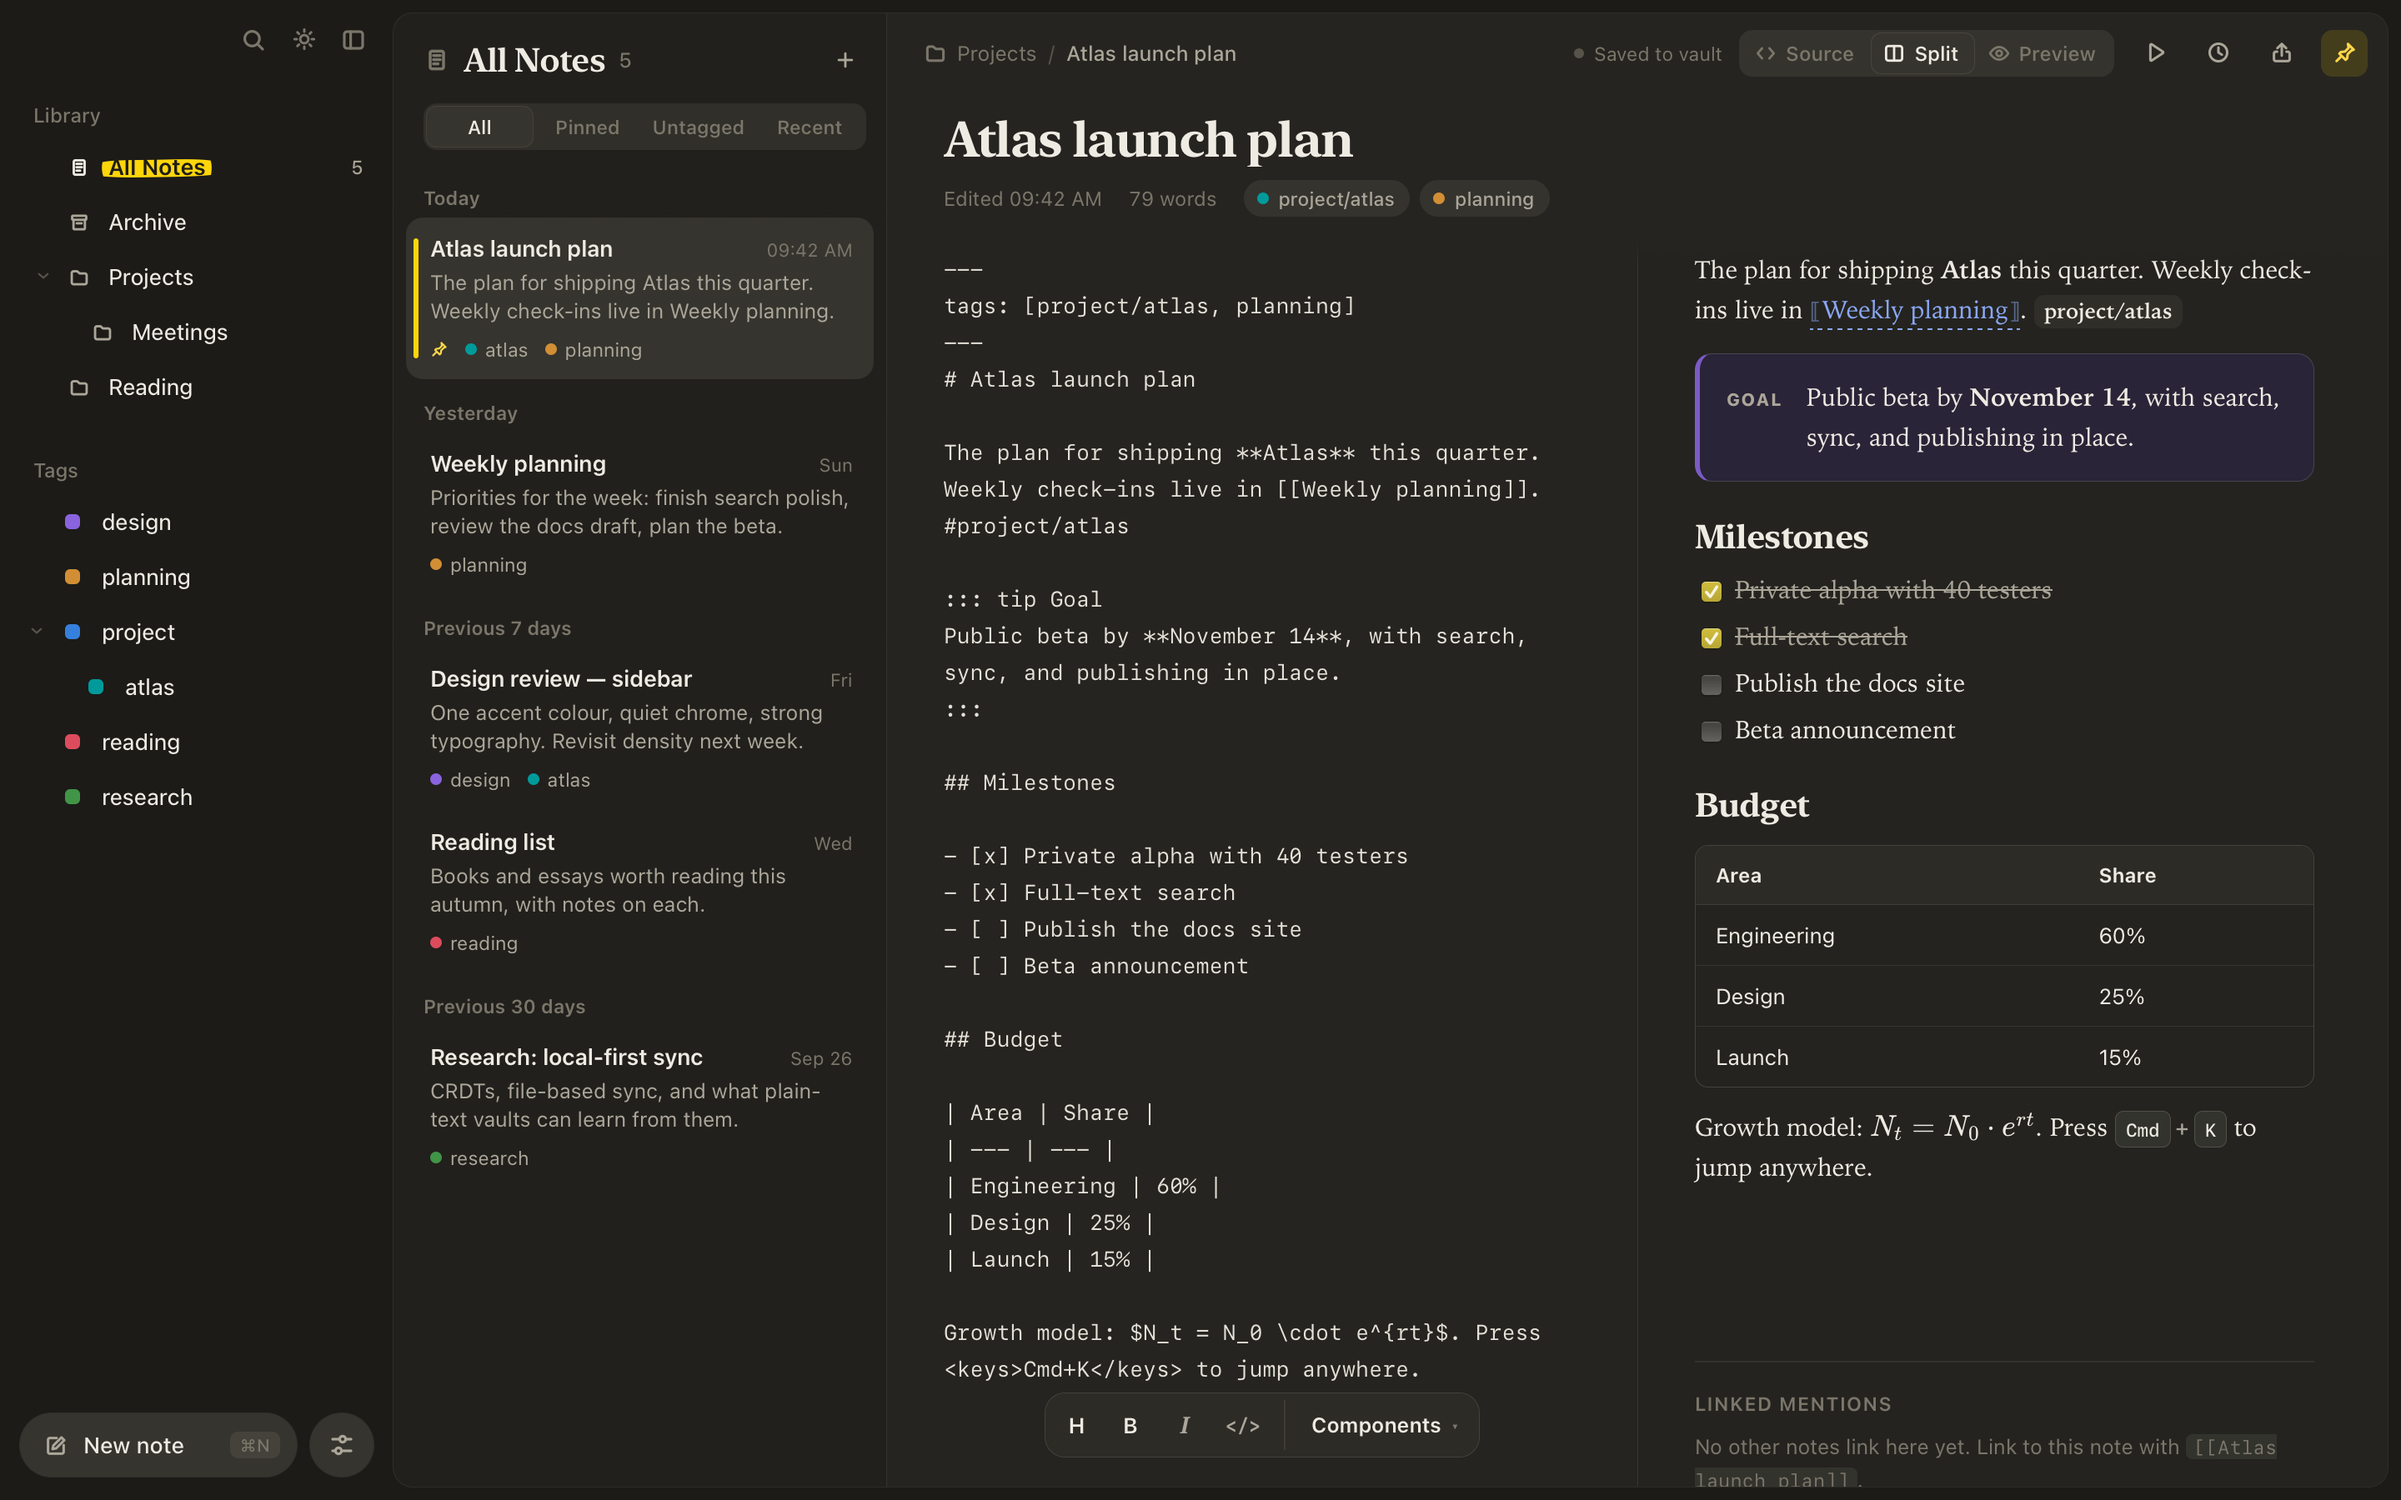
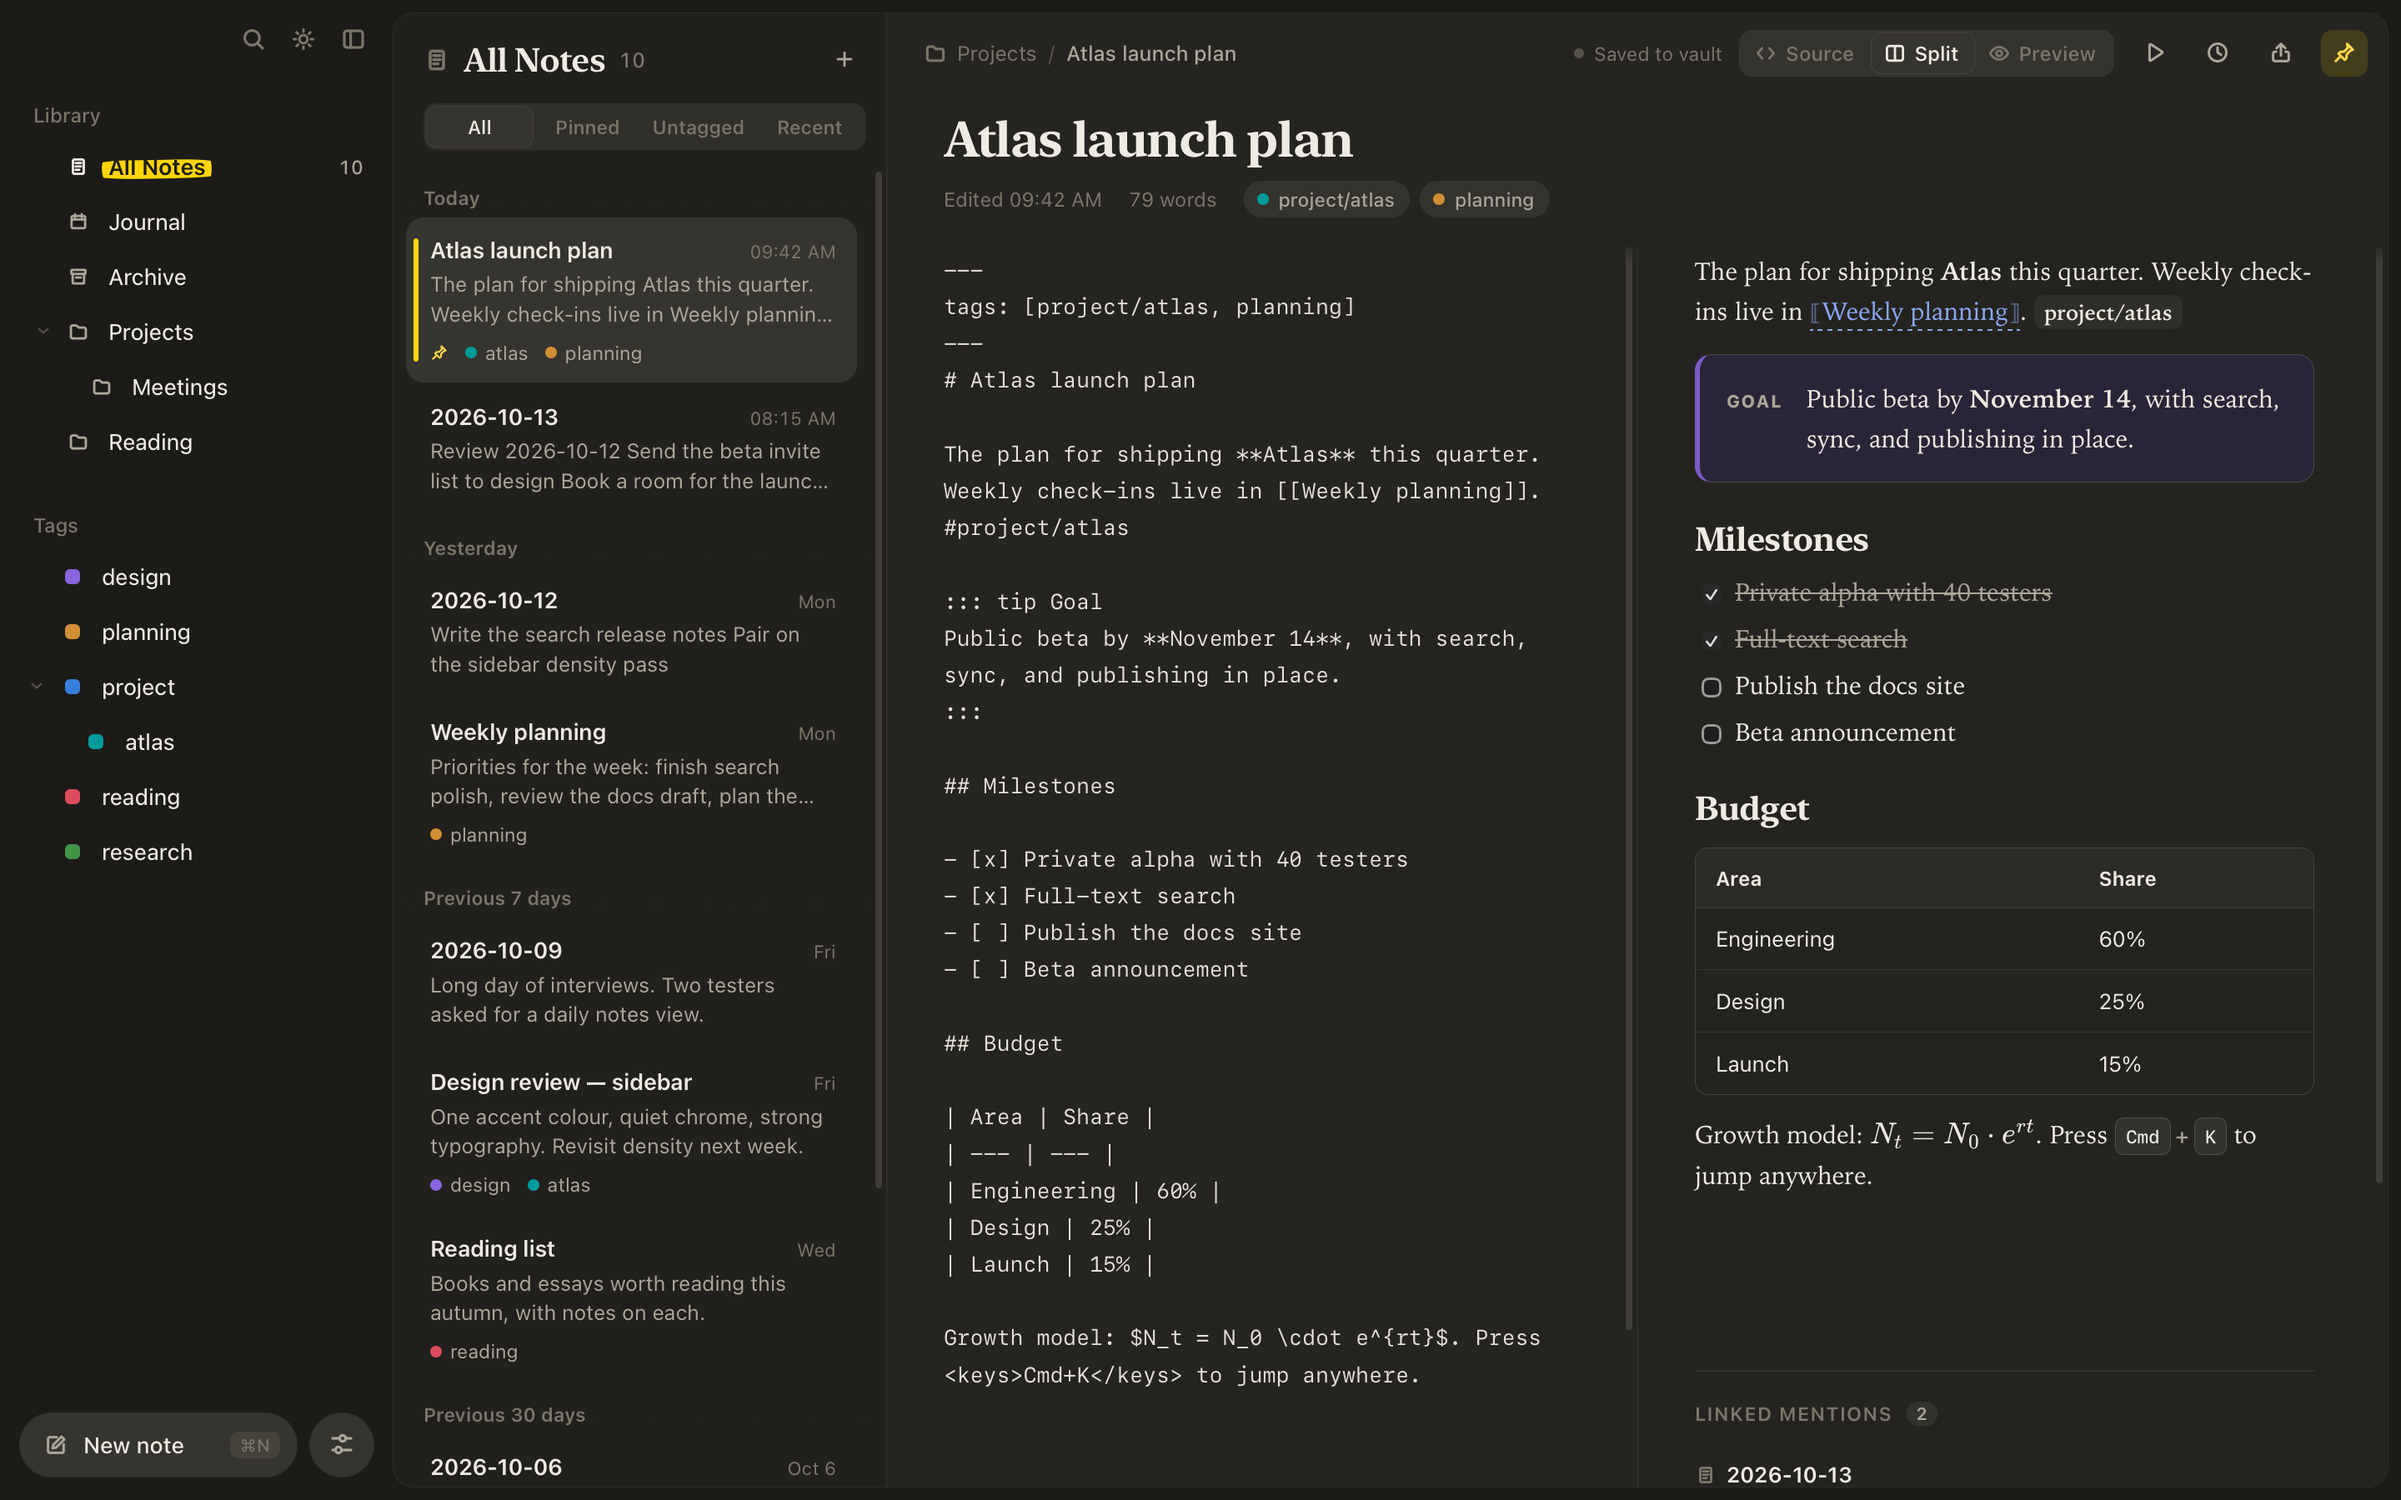
docs: refresh screenshots and add journal screenshots

diff --git a/README.md b/README.md
@@ -18,7 +18,7 @@ Tagdown Editor is a macOS-focused Tauri app for writing structured notes without
 <picture>
   <source media="(prefers-color-scheme: dark)" srcset="docs/images/tagdown-editor-dark.png" />
   <source media="(prefers-color-scheme: light)" srcset="docs/images/tagdown-editor-light.png" />
-  <img width="1440" alt="Tagdown Editor in split view: the sidebar with library folders and a tag tree, a note list grouped by date, and a launch-plan note shown as Tagdown source beside its rendered preview with a callout, task list, table, and math" src="docs/images/tagdown-editor-light.png" />
+  <img width="1440" alt="Tagdown Editor in split view: the sidebar with All Notes, the Journal, library folders and a tag tree, a note list grouped by date, and a launch-plan note shown as Tagdown source beside its rendered preview with a callout, task list, table, and math" src="docs/images/tagdown-editor-light.png" />
 </picture>
 
 <details>

diff --git a/docs/journal.md b/docs/journal.md
@@ -2,6 +2,11 @@
 
 The journal gives every day its own page, in the spirit of Logseq's journals. Open it, and today's page is ready to write in. Use it for a running log, meeting notes, or quick thoughts you'll sort out later.
 
+<picture>
+  <source media="(prefers-color-scheme: dark)" srcset="images/journal-dark.png" />
+  <img width="1440" alt="The Journal: a month calendar with dots on days that have a page, the days listed newest first, and today's page open with tasks, standup notes, and a linked mention from Weekly planning" src="images/journal-light.png" />
+</picture>
+
 ## Today's page
 
 - Click **Journal** in the sidebar, or press **⌘⇧J** from anywhere. Today's page opens, and is created if it doesn't exist yet.
